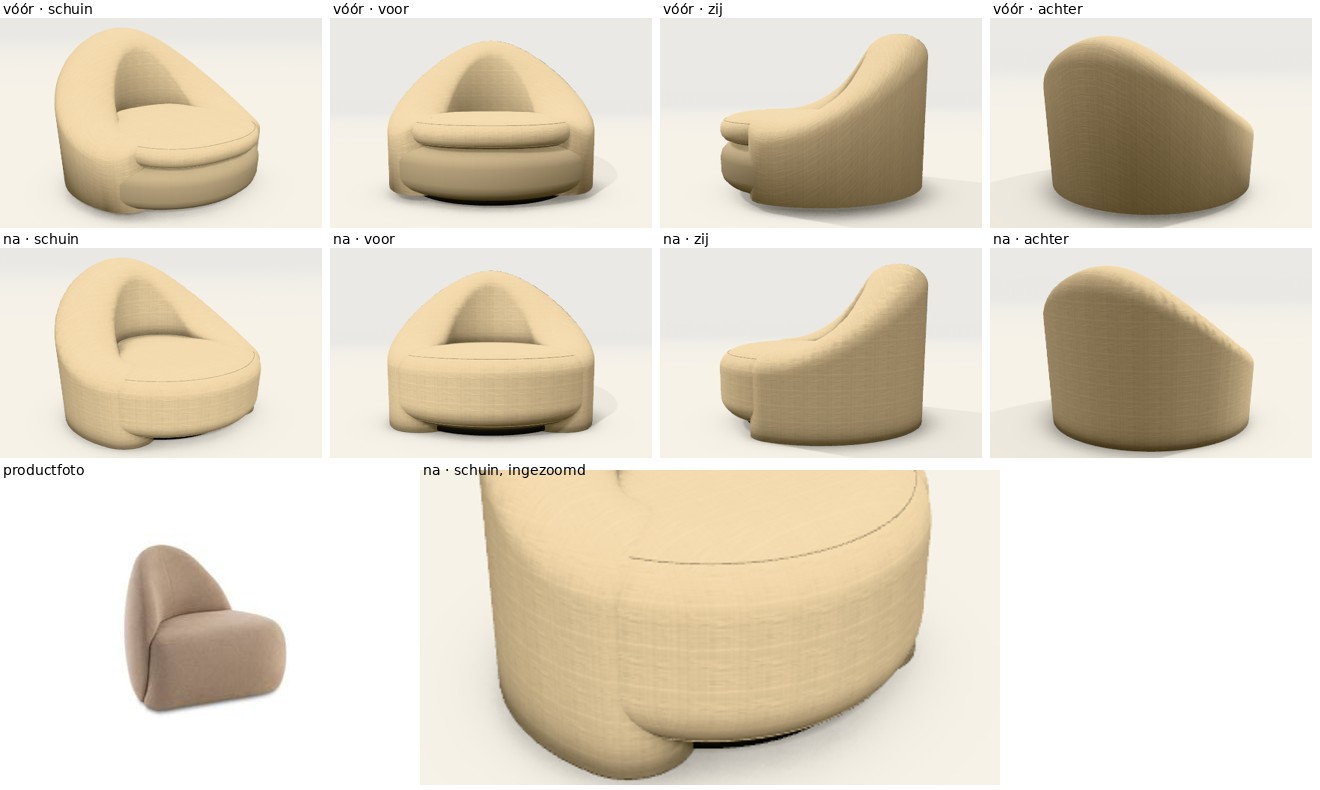
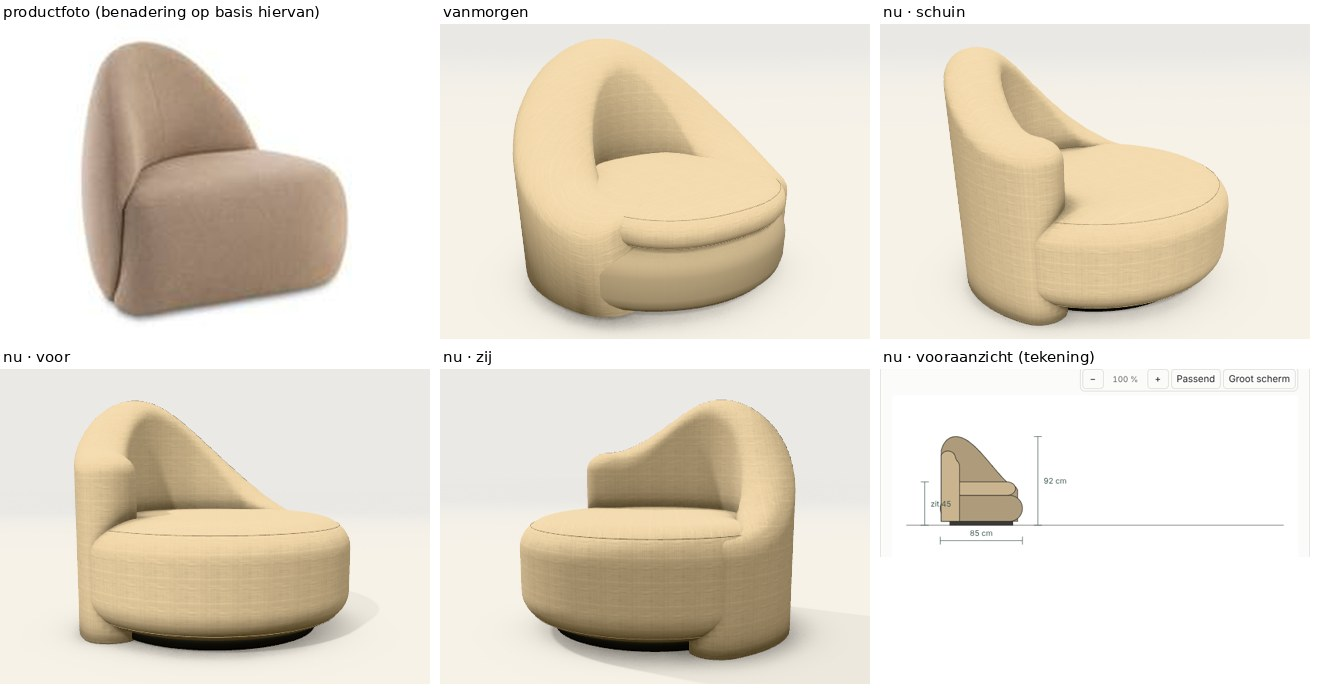
Pebble: scheve schaal zoals op de productfoto
- Kuipvorm Organisch krijgt een scheve schaal (kuip.ts, scheef): van
  rechtsachter (in de zitting) over de rug, het hoogst linksachter, tot
  linksvoor; ronde plattegrond, 16 cm dik. Eén bron, dus ook het boven- en
  vooraanzicht van Pebble volgen. Prijs en offertetekst ongewijzigd; de
  andere kuipvormen blijven symmetrisch (tests).
- Zachte vormen: op de knikpunten van een gebogen, oplopende wand telt de
  gemiddelde helling mee in de richting van het oppervlak (vroeger lichte
  vlekjes om de 2 cm).
- Beeldvergelijking: alleen pebble-schuin veranderde, referentie vernieuwd.
  Uitleg, beeld en lessen in zachte-vormen.md, de kennisbank en de skill.

Claude-Session: https://claude.ai/code/session_01PczewFp9M8BS44vqTSpk6u

diff --git a/packages/core/src/kuip.ts b/packages/core/src/kuip.ts
@@ -26,6 +26,12 @@ export interface KuipParameters {
   organisch: boolean;
   /** Trommel: de wand is rondom (bijna) even hoog; de rug komt van de losse kussens. */
   vlak: boolean;
+  /**
+   * Scheef (Pebble): de schaal loopt niet symmetrisch rond, maar van rechtsachter (op zithoogte, schuin in de zitting)
+   * over de rug naar linksvoor (van voren gezien), het hoogst linksachter, en links tot vooraan. `boog` geldt dan voor de
+   * linkerkant; rechts stopt de wand 50° na het midden achteraan.
+   */
+  scheef: boolean;
 }
 
 /** Parameters uit de `teken`-velden van de gekozen kuipvorm; null voor de hoekige fauteuil (rechte rug en armen). */
@@ -41,6 +47,7 @@ export function kuipParameters(teken: Record<string, unknown> | undefined): Kuip
     zwevend: teken.zwevend === true,
     organisch: teken.organisch === true,
     vlak: teken.vlak === true,
+    scheef: teken.scheef === true,
   };
 }
 
@@ -82,15 +89,34 @@ export function kuipOpbouw(B: number, D: number, h: { P: number; zithoogte: numb
   const plan = superellips(cx, cy, B / 2, D / 2, n, 0, 360, 72).slice(0, -1);
   // Middenlijn van de wand: een halve dikte binnen de rand, symmetrisch rond het midden achteraan.
   const stappen = Math.max(16, Math.round(k.boog / 5));
-  const pad = superellips(cx, cy, B / 2 - w / 2, D / 2 - w / 2, n, -90 - k.boog, -90 + k.boog, stappen * 2);
   const zitBoven = h.zithoogte;
   const voor = zitBoven + k.voorBoven;
   const rug = k.vlak ? voor + 5 : Math.max(h.rugH, voor + 4);
-  const hoogtes = pad.map((_, i) => {
-    const u = Math.abs(i - stappen) / stappen; // 0 = midden achteraan, 1 = einde van de wand
-    const t = Math.min(1, u / k.armVanaf);
-    return Math.round((voor + (rug - voor) * (0.5 + 0.5 * Math.cos(Math.PI * t))) * 10) / 10;
-  });
+  const rond1 = (x: number) => Math.round(x * 10) / 10;
+  let pad: Punt[], hoogtes: number[];
+  if (k.scheef) {
+    // Van rechtsachter (−30°) over het midden achteraan (−90°) naar linksvoor (−90° − boog); het hoogst linksachter (−140°).
+    // Het stijgende stuk rechts is lang genoeg om niet te steil te worden (een te steile bovenkant gaf vlekjes in de 3D).
+    const tRechts = -30, tLinks = -90 - k.boog, tTop = -140;
+    pad = superellips(cx, cy, B / 2 - w / 2, D / 2 - w / 2, n, tRechts, tLinks, stappen * 2);
+    const uTop = (tRechts - tTop) / (tRechts - tLinks);
+    // Links vooraan nog ±half de hoogte boven de zitting (de schaal staat daar tot op de vloer). Rechts verdwijnt de schaal
+    // in de zitting: haar bovenkant eindigt 3 cm onder de zitting, niet erop (twee vlakken op dezelfde hoogte flikkeren).
+    const links = voor + (rug - voor) * 0.5, rechts = zitBoven - 3;
+    hoogtes = pad.map((_, i) => {
+      const u = i / (pad.length - 1);
+      return u <= uTop
+        ? rond1(rechts + (rug - rechts) * (0.5 - 0.5 * Math.cos((Math.PI * u) / uTop)))
+        : rond1(rug - (rug - links) * (0.5 - 0.5 * Math.cos((Math.PI * (u - uTop)) / (1 - uTop))));
+    });
+  } else {
+    pad = superellips(cx, cy, B / 2 - w / 2, D / 2 - w / 2, n, -90 - k.boog, -90 + k.boog, stappen * 2);
+    hoogtes = pad.map((_, i) => {
+      const u = Math.abs(i - stappen) / stappen; // 0 = midden achteraan, 1 = einde van de wand
+      const t = Math.min(1, u / k.armVanaf);
+      return rond1(voor + (rug - voor) * (0.5 + 0.5 * Math.cos(Math.PI * t)));
+    });
+  }
   const basisBoven = h.zithoogte - h.kussenDik;
   // Schelp: zweeft een eind boven de zitting (gedragen door het frame), anders staat de wand op de onderbouw.
   const onder = k.zwevend ? h.zithoogte + 6 : h.P;

diff --git a/packages/core/test/kuip.test.ts b/packages/core/test/kuip.test.ts
@@ -46,3 +46,30 @@ describe('kuipfauteuils', () => {
     expect(va.vormen.some((v) => v.code === 'f.arm')).toBe(true);
   });
 });
+
+describe('scheve schaal (kuipvorm organisch, Pebble)', () => {
+  const h = { P: 4, zithoogte: 44, rugH: 92, kussenDik: 12 };
+  const opb = kuipOpbouw(85, 85, h, kuipParameters(teken('organisch'))!, false);
+  const { pad, hoogtes } = opb.wand;
+  it('rechts achteraan begint de schaal onder de zitting, links blijft ze hoog tot vooraan', () => {
+    expect(hoogtes[0]).toBeLessThan(h.zithoogte); // rechts: verdwijnt in de zitting
+    expect(pad[0]![0]).toBeGreaterThan(60); // rechts (grote x)
+    expect(pad[0]![1]).toBeLessThan(40); // achter het midden
+    const laatste = pad[pad.length - 1]!;
+    expect(laatste[0]).toBeLessThan(25); // links
+    expect(laatste[1]).toBeGreaterThan(55); // vooraan
+    expect(hoogtes[hoogtes.length - 1]).toBeGreaterThan(h.zithoogte + 15);
+    // Het hoogst linksachter.
+    const top = pad[hoogtes.indexOf(Math.max(...hoogtes))]!;
+    expect(top[0]).toBeLessThan(42.5);
+    expect(top[1]).toBeLessThan(42.5);
+    expect(Math.max(...hoogtes)).toBe(92);
+    for (const [x, y] of [...opb.plan, ...pad]) { expect(x).toBeGreaterThanOrEqual(-0.01); expect(x).toBeLessThanOrEqual(85.01); expect(y).toBeGreaterThanOrEqual(-0.01); expect(y).toBeLessThanOrEqual(85.01); }
+  });
+  it('de andere kuipvormen blijven symmetrisch', () => {
+    for (const v of ['rond', 'afgerond', 'omhullend', 'trommel', 'schelp']) {
+      const w = kuipOpbouw(85, 85, h, kuipParameters(teken(v))!, false).wand.hoogtes;
+      expect(w[0], v).toBe(w[w.length - 1]);
+    }
+  });
+});

diff --git a/packages/core/voorbeelden/vrij-ontwerp.ts b/packages/core/voorbeelden/vrij-ontwerp.ts
@@ -208,7 +208,7 @@ export const zetelOpties: OptieGroep[] = [
       { code: 'afgerond', label: 'Afgerond met armen', uitleg: 'Afgeronde rug die naar armhoogte zakt en vlak doorloopt', teken: { vorm: 'afgerond', plan: 'afgerond', dikte: 13, boog: 130, voorBoven: 17, armVanaf: 0.6 } },
       { code: 'omhullend', label: 'Omhullend', uitleg: 'Wand loopt ver rond, armen laag vooraan', teken: { vorm: 'omhullend', plan: 'rond', dikte: 17, boog: 140, voorBoven: 9, armVanaf: 1 } },
       { code: 'trommel', label: 'Trommel', uitleg: 'Ronde trommel, rondom even hoog, met losse rugkussens', teken: { vorm: 'trommel', plan: 'rond', dikte: 14, boog: 138, voorBoven: 22, armVanaf: 1, vlak: true } },
-      { code: 'organisch', label: 'Organisch', uitleg: 'Dikke, zachte vorm met hoge rug die naar voren in de zitting overloopt', teken: { vorm: 'organisch', plan: 'rond', dikte: 24, boog: 118, voorBoven: 1, armVanaf: 1, organisch: true } },
+      { code: 'organisch', label: 'Organisch', uitleg: 'Zachte kiezel als zitting; de schaal is aan één kant hoog en loopt aan de andere kant schuin in de zitting weg', teken: { vorm: 'organisch', plan: 'rond', dikte: 16, boog: 118, voorBoven: 1, armVanaf: 1, organisch: true, scheef: true } },
       { code: 'schelp', label: 'Schelp op frame', uitleg: 'Dunne, gebogen rugschaal boven de zitting, op het frame', teken: { vorm: 'schelp', plan: 'afgerond', dikte: 6, boog: 98, voorBoven: 20, armVanaf: 1, zwevend: true } },
       { code: 'hoekig', label: 'Hoekig', uitleg: 'Rechte rug en armen', teken: { vorm: 'hoekig' } },
     ],

diff --git a/packages/core/src/zachtevorm.ts b/packages/core/src/zachtevorm.ts
@@ -151,7 +151,18 @@ function wand(b: Blok): Primitief {
       const cx = ax + t * ux, cz = az + t * uz, d2 = (x - cx) * (x - cx) + (z - cz) * (z - cz);
       if (d2 < beste) {
         beste = d2; qx = cx; qz = cz; top = hoog[i]! + t * (hoog[i + 1]! - hoog[i]!); stuk = i;
-        if (t > 0 && t < 1) { const hel = (hoog[i + 1]! - hoog[i]!) / l2; hx = hel * ux; hz = hel * uz; } else hx = hz = 0;
+        if (t > 0 && t < 1) { const hel = (hoog[i + 1]! - hoog[i]!) / l2; hx = hel * ux; hz = hel * uz; }
+        else {
+          // Op een hoekpunt van het pad (niet aan een uiteinde): de gemiddelde helling van de twee stukken ernaast. Met
+          // helling nul sprong de richting daar: lichte vlekjes om de 2 cm op een oplopende wand, aan de buitenkant van
+          // een bocht (Pebble, 5/11).
+          const j = t <= 0 ? i : i + 1;
+          if (j > 0 && j < n - 1) {
+            const vx = pad[j + 1]![0] - pad[j - 1]![0], vz = pad[j + 1]![1] - pad[j - 1]![1], v2 = vx * vx + vz * vz || 1e-9;
+            const hel = (hoog[j + 1]! - hoog[j - 1]!) / v2;
+            hx = hel * vx; hz = hel * vz;
+          } else hx = hz = 0;
+        }
       }
     }
     o[0] = x - qx; o[1] = z - qz; o[2] = top; o[3] = hx; o[4] = hz; o[5] = stuk;

diff --git a/packages/core/test/zachtevorm.test.ts b/packages/core/test/zachtevorm.test.ts
@@ -153,3 +153,22 @@ describe('doorlopende zetel als zachte vorm', () => {
     }
   });
 });
+
+describe('gebogen wand die oploopt (Pebble, 5/11)', () => {
+  it('op de knikpunten van het pad springt de richting niet (vroeger lichte vlekjes om de 2 cm)', () => {
+    const s = bouw3D(structuredClone(zetelModellen.find((m) => m.code === 'pebble')!.ontwerp), zetelCatalogus, standaardMaterialen);
+    const rug = s.blokken.find((b) => b.code === 'e1.rug')!;
+    const v = zachteVorm([rug], { minAfronding: 0 });
+    expect(dicht(v)).toBe(0);
+    // Driehoeken waarvan de richtingen in de hoekpunten meer dan 20° uiteenlopen: zonder de helling op de knikpunten 4,9 %.
+    const c = Math.cos((20 * Math.PI) / 180);
+    let mis = 0;
+    for (let t = 0; t < v.driehoeken; t++) {
+      const n = (k: number) => [0, 1, 2].map((a) => v.normalen[(t * 3 + k) * 3 + a]!);
+      const [a, b, d] = [n(0), n(1), n(2)];
+      const dot = (p: number[], q: number[]) => p[0]! * q[0]! + p[1]! * q[1]! + p[2]! * q[2]!;
+      if (Math.min(dot(a, b), dot(b, d), dot(a, d)) < c) mis++;
+    }
+    expect(mis / v.driehoeken).toBeLessThan(0.04);
+  });
+});

diff --git a/docs/overdracht.md b/docs/overdracht.md
@@ -7,7 +7,7 @@
 | Analyse en stappenplan | `docs/configurator-analyse-en-stappenplan.md` (incl. beslissingen en voortgangstabel) |
 | Onderzoek zetelconfigurators | `docs/onderzoek-zetelconfigurators.md` |
 | Fase 0-sjabloon (productkennis klant) | `docs/fase0-productkennis-meubels.md`, nog in te vullen met de klant |
-| Motor (`packages/core`) | Klaar voor demo: formules, regels, prijstabellen, korting, stuklijst, materialen, vrij ontwerp met opties, vormgeving (ontwerpmodus), vooraanzicht, 3D-opbouw, collectie van 42 modellen, opzet-elementen, catalogus-controle, vrije hoogtes. Daarnaast voor de bouw: raam/deur-model, plattegrond (`plattegrond.ts`, `plattegrondsvg.ts`), gevels en gevelmaterialen (`gevels.ts`), offerte met posities (`offerte.ts`) en de maatlijstlezer (`voorbeelden/maatlijst.ts`). Echte 3D-modellen als proef (`echt3d.ts`), zachte vormen (`zachtevorm.ts`) en de doorlopende opbouw (`doorlopend.ts`), zie hieronder. **246 tests groen.** |
+| Motor (`packages/core`) | Klaar voor demo: formules, regels, prijstabellen, korting, stuklijst, materialen, vrij ontwerp met opties, vormgeving (ontwerpmodus), vooraanzicht, 3D-opbouw, collectie van 42 modellen, opzet-elementen, catalogus-controle, vrije hoogtes. Daarnaast voor de bouw: raam/deur-model, plattegrond (`plattegrond.ts`, `plattegrondsvg.ts`), gevels en gevelmaterialen (`gevels.ts`), offerte met posities (`offerte.ts`) en de maatlijstlezer (`voorbeelden/maatlijst.ts`). Echte 3D-modellen als proef (`echt3d.ts`), zachte vormen (`zachtevorm.ts`) en de doorlopende opbouw (`doorlopend.ts`), zie hieronder. **249 tests groen.** |
 | Klikbare demo (`packages/demo-web`) | Tabbladen: Modellen · Sofa op maat · Vrij ontwerp (tekenen in boven- én vooraanzicht, verplaatsen, vrije hoogtes, 3D, ontwerpmodus, rugleuningen en kussens) · Kast op maat · Materialen · **Catalogus** (editor: elementen, opties, modellen, delen) |
 | Huisstijl klant | `npm run build -w @configurator/demo-web` maakt ook `dist/configurator-corneille-silence.html` (stijl van hun website). **Niet publiek publiceren**: alleen als bestand aan de gebruiker. |
 | Doorsturen (offline) | De build maakt ook `dist/*-offline.html`: één bestand met 3D-bibliotheek, lettertypes en foto's ingebakken, werkt zonder internet. Eerst `python3 -I packages/demo-web/scripts/haal_lettertypes.py` en `haal_fotos.py` (niet in git). Zip met LEES MIJ: `obsidian-export/Configurator Corneille & Silence.zip`. |
@@ -22,7 +22,7 @@
 | **Overstap naar WebGPU (4/11)** | Na de proeven (verslag `docs/proeven/3d-motor-proeven-0411.md`) alles samengevoegd: weefselkaarten, glas met transmission, scherpere omgeving en de lichtsfeer *Fotostudio* (HDRI, CC0), fotomodus op WebGPU met ontruiser. Daarna de hele 3D (zeteldemo en bouwdemo) op `WebGPURenderer`:<br>• WebGPU waar de browser het heeft (de M5 in de toonzaal: Safari 27.2, adapter Apple, shader-f16), anders automatisch WebGL2 met hetzelfde beeld;<br>• schaduw in hoeken (kwaliteit *Mooi*) opnieuw gebouwd met de nabewerking van WebGPU (TSL: GTAO + ontruisen);<br>• fotomodus: WebGPU-path tracer met ontruiser, anders de oude op een tijdelijke WebGL-renderer;<br>• beelden van het canvas via `viewer.beeld()` (offerte); de slagschaduw is zachter dan vroeger (VSM van WebGPU).<br>• **Getest:** alleen de WebGL2-weg (in de cloud is er geen WebGPU): vijf zetels, woning en raam tegenover de vorige versie, *Snel* en *Mooi*, fotomodus en offerte. **WebGPU zelf nog te testen op de M5.** Pagina ±6,4 MB (HDRI 2,2 MB en WebGPU-onderdelen). |
 | **Schaduw volgt de vorm (5/11)** | Melding van Jonas: "De schaduw volgt niet de vorm van het object." Twee oorzaken gevonden (ook al vóór WebGPU):<br>• de contactschaduw onder de zetel was een rechthoek per onderdeel (ronde poef: vierkante schaduw; Doha: rechthoekige vlek voorbij de ronde uiteinden). Nu de echte grondvorm per onderdeel;<br>• de verdekte voet was altijd vierkant en stak onder ronde fauteuils (Pebble) uit: een harde, zwarte plaat. Nu dezelfde vorm als het meubel, 10 cm naar binnen.<br>• Prijs, offerte, boven- en vooraanzicht ongewijzigd. Getest op de WebGL2-weg (Doha, Kotor, Pebble, Stockholm). **Nog na te kijken op de M5:** de zonneschaduw via WebGPU (VSM); ziet die er nog verkeerd uit, dan een schermafbeelding met model en toestel. |
 | **Gratis hulpmiddelen en beeldvergelijking (5/11)** | Advies over gratis hulpmiddelen in `docs/3d-technieken.md` (Material Maker, DeepBump, Real-ESRGAN, HDRI's; in three.js: SSS, TRAA, SSGI, SSR, Inspector).<br>• **Getest, niet opgenomen:** fijne contactschaduw (SSS) en TRAA bij *Mooi*: geen zichtbare winst, wel extra rekenwerk (beeld `docs/afbeeldingen/proef-sss-traa.jpg`, verslag in `docs/proeven/3d-motor-proeven-0411.md`).<br>• **Nieuw:** `npm run beelden`: vaste reeks van 10 beelden (zetels, poef, woning, raam) tegenover de referentie in `beeldtest/referentie/`, verschil in het rood (`beeldtest/LEESMIJ.md`). Proef: de fout van vandaag (vierkante voet) tijdelijk teruggezet en gemeld.<br>• Texturen van vloer, wand en hout met een vaste toevalsreeks: hetzelfde parket bij elke keer laden.<br>• Volgende stap volgens het advies: stoffen maken met Material Maker en DeepBump; SSGI als proef op de M5. |
-| **Pebble afgewerkt (5/11)** | Melding: "de vormen lopen door elkaar". De zitting is nu één zachte kiezel in de stof (geen donkere onderbouw met los kussen), de schaal een eigen zachte vorm met ronde uiteinden die op de vloer staat; een zachte vouw waar ze tegen elkaar drukken, zoals op de foto. Alleen kuipvorm *Organisch*; prijs, offerte, boven- en vooraanzicht ongewijzigd. Beeldvergelijking: alleen `pebble-schuin` veranderde (6,5 %), de 9 andere bleven 0,00 %. Uitleg en beeld in `docs/zachte-vormen.md`. 246 tests. |
+| **Pebble afgewerkt (5/11)** | Melding: "de vormen lopen door elkaar", met de productfoto. De zitting is nu één zachte kiezel in de stof (geen donkere onderbouw met los kussen); de schaal staat scheef zoals op de foto (links hoog en tot vooraan op de vloer, rechts schuin in de zitting), met ronde uiteinden en een zachte vouw tegen de zitting. Lichte vlekjes op de oplopende schaal opgelost in de motor voor zachte vormen. Verandert: 3D en boven- en vooraanzicht van Pebble (ook de tekening in de offerte); prijs en offertetekst niet; andere kuipfauteuils niet. Beeldvergelijking: alleen `pebble-schuin` veranderde, de 9 andere bleven 0,00 %. Benadering uit één foto: na te kijken met een tweede foto of bij de klant. Uitleg en beeld in `docs/zachte-vormen.md`. 249 tests. |
 | **3D-kennisbank en advies ramen en deuren (4/11)** | `docs/3d-technieken.md` (in Obsidian: *3D-technieken - kennisbank*):<br>• alle 3D-technieken op een rij (blokken, eigen doorsnede, zachte vormen, doorlopende opbouw, boog, echt 3D-bestand, weergave, snelheid): wat ze doen, waarvoor wel en niet, rekentijd, waar in de code;<br>• de lessen (eigen vorm per type, eerst de opbouw, grote foto's van de productpagina, vergelijkingsbeeld, benaderingen markeren, 3D-keuze kan de prijs raken);<br>• een werkwijze voor een nieuw model of product;<br>• **advies ramen en deuren** (vraag: "is deze techniek voor 3D bruikbaar voor ramen en deuren?", nog niet gebouwd): de zachte vormen niet; wel een eigen doorsnede per profielsysteem (verstek, doorsnedetekening, rondboog; DXF van de leverancier), echte 3D-bestanden voor krukken en trekbeugels; de weergave is al gedeeld. |
 | **Doorlopende zetel: Doha en Montego (4/11)** | Melding: "Montego en Doha zien er in de 3D identiek uit" en "groot verschil qua opbouw" met de foto; daarna "we maken progressie maar is nog niet af". Oorzaak: beide waren losse elementen naast elkaar; op de foto's (de grote van de productpagina's) is elk één doorlopende zetel.<br>• **Nieuw in de vormgeving van de zetel:** *Opbouw in 3D* (*Per element* of *Doorlopend (één zetel)*) en *Boog bij doorlopend* (0–60 cm, de uiteinden naar voren). Motor: `core/src/doorlopend.ts`.<br>• **Doorlopend:** met losse zitkussens twee ronde banden (zitting rondom, onderbouw 3 cm terug, diepe naad), met een vaste zitting één ronde vorm; één rug langs de achterkant. Bij een afgerond uiteinde volgt de rug *Rug bij de ronde kant*: *rond* = korte omloop als armleuning op volle hoogte (tot ±32 % van de diepte), *recht* = de rug stopt met een ronde kop ±40 % van het eindelement ver en de zitting loopt verder. Een dieper element loopt vloeiend over in de rest (1,6 × het diepteverschil aan elke kant, 25–70 cm). Onderbouw en rug zijn één zachte vorm, ook bij *Blokken*.<br>• **Doha:** loungedeel links 145 cm diep, zitting 22 cm, armleuningen aan beide kanten, oranje en lichtgrijs sierkussen. **Montego:** vaste zitting, rug aan beide kanten alleen op het rechte deel, boog van 30 cm. Allemaal benaderingen uit de foto's.<br>• **Schaduw:** buren met een vrije omtrek (zitkussen) of gebogen wand tellen nu met hun echte vorm (vroeger als doos rond hun kader: grijze vlekken waar niets staat); het zitkussen krijgt schaduw van de rug.<br>• **Rekenen:** in de achtergrond (eerst de gewone vorm), ±0,3–0,7 s; tabellen in het grondvlak voor lange omtrekken en wanden (2 à 3 × sneller).<br>• **Blijft per element:** prijs, offerte, boven- en vooraanzicht (de boog alleen in 3D). Let op: de offerte toont dus in 3D één zetel en in de tekeningen de losse elementen. Alleen een rechte rij: bij een hoeksofa doet alleen de langste rechte rij mee (niet getest).<br>• Beeld: `docs/afbeeldingen/doorlopende-zetel.jpg`; uitleg in `docs/zachte-vormen.md`. |
 | **Strakke arm met eigen vorm (4/11)** | Na de zachte vormen: de strakke arm (16 van de 21 modellen met armen) is een eigen doorsnede (`strakProfiel` in `ruimtelijk.ts`), in alle weergaven en in het vooraanzicht.<br>• **Vorm:** zacht afgeronde, licht bolle bovenkant, licht bolle zijkanten, een voorpaneel met afgeronde rand dat in het midden bol staat; hoe zacht volgt de zachtheid van het model. Met een hoes loopt de arm tot op de vloer (Husk).<br>• **Naad of bies rond het voorpaneel** van elke arm met een eigen vorm (ook Wallace), volgens *Naden*.<br>• **Sneller:** grote zetels (meer dan 3 m³) met een raster van 2,5 cm bij *Zacht*; ±0,2–0,7 s per sofa.<br>• **Nog als balk:** rolarm, Engels, schuin, met houten blad, en de rug en onderbouw.<br>• Beeld: `docs/afbeeldingen/strakke-arm.jpg`; uitleg in `docs/zachte-vormen.md`. |

diff --git a/docs/zachte-vormen.md b/docs/zachte-vormen.md
@@ -170,23 +170,31 @@ De motor gebruikt dezelfde werkwijze als 3D-programma's (*afstandsvelden* en *su
 3. **Daarna kiezen:** *Zacht* standaard aan, als het op een tablet vlot genoeg is.
 4. **Stap 2 voor topmodellen:** een 3D-bestand per model (zie `echte-3d-modellen.md`).
 
-## Pebble: zachte kiezel met een schaal (5/11)
+## Pebble: zachte kiezel met een scheve schaal (5/11)
 
-Melding van Jonas: "de vormen lopen door elkaar". Pebble (kuipvorm *Organisch*) bestond uit drie losse delen: een
-donkere onderbouw, een lichter zitkussen met een uitstekende rand, en een schaal die vooraan recht afgesneden in de
-onderbouw stak. Op de productfoto is de zitting één zachte kiezel in één kleur, met een hoge schaal die eromheen loopt
-tot op de vloer.
+Melding van Jonas: "de vormen lopen door elkaar", met de productfoto. Pebble (kuipvorm *Organisch*) bestond uit drie
+losse delen: een donkere onderbouw, een lichter zitkussen met een uitstekende rand, en een symmetrische schaal die
+vooraan recht afgesneden in de onderbouw stak. Op de foto is de zitting één zachte kiezel in één kleur, en de schaal
+staat scheef: links hoog en tot vooraan op de vloer, rechts zakt ze schuin weg in de zitting.
 
-Nu (alleen bij *Organisch*, in `ruimtelijk.ts`):
-- de zitting is één zacht blok in de stof, van de voet tot op zithoogte (kussen, `glad`), zonder los zitkussen;
-- de schaal is een eigen zachte vorm (`glad`) met ronde uiteinden. Zitting en schaal smelten bewust **niet** samen: dan
-  werd het één klomp. Apart blijft er een zachte vouw waar de schaal tegen de zitting drukt, zoals op de foto;
-- de schaal staat op de vloer: ze begint 3 cm onder de vloer, zodat haar platte onderkant (die rafels gaf) niet te zien
-  is.
+Nu:
+- **Zitting:** één zacht blok in de stof, van de voet tot op zithoogte (kussen, `glad`), zonder los zitkussen
+  (`ruimtelijk.ts`).
+- **Schaal:** een eigen zachte vorm (`glad`) met ronde uiteinden. Ze loopt van rechtsachter (3 cm onder de zitting, dus
+  in de zitting) over de rug, het hoogst linksachter, tot linksvoor op ±half de hoogte boven de zitting (`kuip.ts`,
+  `scheef`). Ronde plattegrond, 16 cm dik. Zitting en schaal smelten bewust **niet** samen: dan werd het één klomp. Apart
+  blijft er een zachte vouw waar de schaal tegen de zitting drukt.
+- **Op de vloer:** de schaal begint 3 cm onder de vloer, zodat haar platte onderkant (die rafels gaf) niet te zien is.
+- **Lichte vlekjes** op een oplopende, gebogen wand: op de knikpunten van het pad rekende de motor de helling als nul.
+  Nu het gemiddelde van de stukken ernaast (`zachtevorm.ts`, `wand`).
 
-Prijs, offerte, boven- en vooraanzicht veranderen niet. Andere kuipfauteuils (Tumble, Manon, Satie …) blijven zoals ze
-waren. Benadering uit één kleine foto (400 px): de schaal lijkt op de foto iets scheef (hoger aan één kant); dat is niet
-nagebootst.
+Wat verandert: de 3D, en het boven- en vooraanzicht van Pebble (die lezen dezelfde schaal uit `kuipOpbouw`, dus ook de
+tekening in de offerte). Het vooraanzicht toont de zitting nog als kussen op een onderbouw. Prijs en offertetekst
+veranderen niet; de andere kuipfauteuils (Tumble, Manon, Satie …) blijven zoals ze waren (tests). Kussendikte en
+comfort zie je bij Pebble niet meer in 3D (één blok).
 
-![Pebble: vóór, na, de productfoto en een detail](afbeeldingen/pebble-kiezel.jpg)
+Benadering uit één kleine foto (400 px, één standpunt): hoe ver de schaal links naar voren loopt, de dikte en de
+plattegrond van de zitting (op de foto eerder een afgeronde rechthoek; een afgerond grondvlak gaf vlekken op de schaal)
+moeten op een tweede foto of bij de klant nagekeken worden.
 
+![Pebble: de productfoto, vanmorgen, nu in drie standpunten en het vooraanzicht](afbeeldingen/pebble-kiezel.jpg)

diff --git a/.claude/skills/zetel-3d/SKILL.md b/.claude/skills/zetel-3d/SKILL.md
@@ -180,7 +180,8 @@ Lees opties via `gekozenOpties(ontwerp, catalogus, e)` en `te(groep, veld, stand
 ## Valkuilen
 - Vergeet de rotatie niet: test elke nieuwe vorm bij 0, 90, 180 en 270.
 - Vooraanzicht: achterste elementen eerst tekenen (sortering op voorrand), anders bedekken ze de voorste.
-- Kuipvorm *Organisch* (Pebble, 5/11): `kiezel` in `ruimtelijk.ts`: `e1.basis` = één zacht blok (soort `kussen`, `glad`, stofkleur) van P tot zithoogte, geen `zitkussen`; `e1.rug` = kuipwand `glad` (eigen zachte vorm, ronde uiteinden uit de capsule) die bij P ≤ 8 op y = −3 begint (platte onderkant onder de vloer, anders rafels). Zitting en schaal bewust in aparte groepen (kussen vs stof): samen gaf één klomp zonder vouw. `kuipOpbouw` en het vooraanzicht ongewijzigd.
+- Kuipvorm *Organisch* (Pebble, 5/11): `kiezel` in `ruimtelijk.ts`: `e1.basis` = één zacht blok (soort `kussen`, `glad`, stofkleur) van P tot zithoogte, geen `zitkussen`; `e1.rug` = kuipwand `glad` (eigen zachte vorm, ronde uiteinden uit de capsule) die bij P ≤ 8 op y = −3 begint (platte onderkant onder de vloer, anders rafels). Zitting en schaal bewust in aparte groepen (kussen vs stof): samen gaf één klomp zonder vouw. De schaal is scheef (`KuipParameters.scheef`, in `kuipOpbouw`, dus ook boven- en vooraanzicht): van −30° (rechtsachter, top 3 cm onder de zitting) over −140° (hoogst) naar −90° − boog (linksvoor, ±half boven de zitting); teken `plan: 'rond', dikte: 16, boog: 118`. Een te steile stijging of een afgerond grondvlak gaf vlekjes; twee vlakken op zithoogte flikkerden.
+- `zachtevorm.ts` `wand`: op een hoekpunt van het pad (t geklemd, niet aan een uiteinde) de gemiddelde helling van de twee stukken ernaast in de normaal, niet nul (vlekjes om de 2 cm op een oplopende, gebogen wand).
 - Ronde elementen: poten en verdekte voet naar binnen zetten, anders steken ze buiten de ronding uit. Sinds 5/11 krijgt de verdekte voet onder een staande cilinder (ronde poef) of een blok met `omtrek` (kuipfauteuil) dezelfde vorm, 10 cm naar binnen (`ruimtelijk.ts`, na de opbouw van het element; niet bij `rond`, dat heeft `verdekt-rond`). Het vooraanzicht blijft een rechthoek.
 - Contactschaduw (`zetContactschaduw` → `tekenGrondvorm` in `drie-d.ts`): per blok onder 25 cm de echte grondvorm op een canvas (omtrek, ellips voor staande cilinder/kegel, `roundRect` met afronding, `draai` rond het midden, kuipwand als dikke lijn langs `pad`, profiel als strook over het onderste deel van de doorsnede), vervaagd via `shadowBlur` met de vorm 2000 px links buiten beeld. Nooit terug naar het kader per blok.
 - Prijs en tekening los houden: de tekening leest `teken`, de prijs leest `prijs/prijsPerM/pct`.

diff --git a/docs/3d-technieken.md b/docs/3d-technieken.md
@@ -177,6 +177,9 @@ Beeld van de proef: `docs/afbeeldingen/proef-sss-traa.jpg`.
 - **Effecten die over meerdere beelden opbouwen** (TRAA, tijdsfilters) passen slecht bij een weergave die alleen
   tekent als er iets verandert: ze vragen 8 à 16 schermbeelden na elke wijziging, en een foto voor de offerte ook. Ze
   rekenen hun geschiedenis maar één keer per schermbeeld bij, dus snel na elkaar tekenen helpt niet.
+- **Een gebogen wand die oploopt:** op de knikpunten van het pad moet de helling meetellen (gemiddelde van de stukken
+  ernaast), anders lichte vlekjes om de 2 cm. Hou de stijging ook niet te steil, en laat een wand niet eindigen op
+  exact de hoogte van een ander vlak (flikkeren): liever een paar cm erin.
 - **Geen Math.random in texturen:** dan ziet het parket er bij elke keer laden anders uit, en kan de beeldvergelijking
   niets vergelijken. Gebruik `vasteReeks(sleutel)` in `drie-d.ts`.
 - **Meer:** de skills `zetel-3d` (`.claude/skills/zetel-3d/SKILL.md`) en `bouw-woning`
